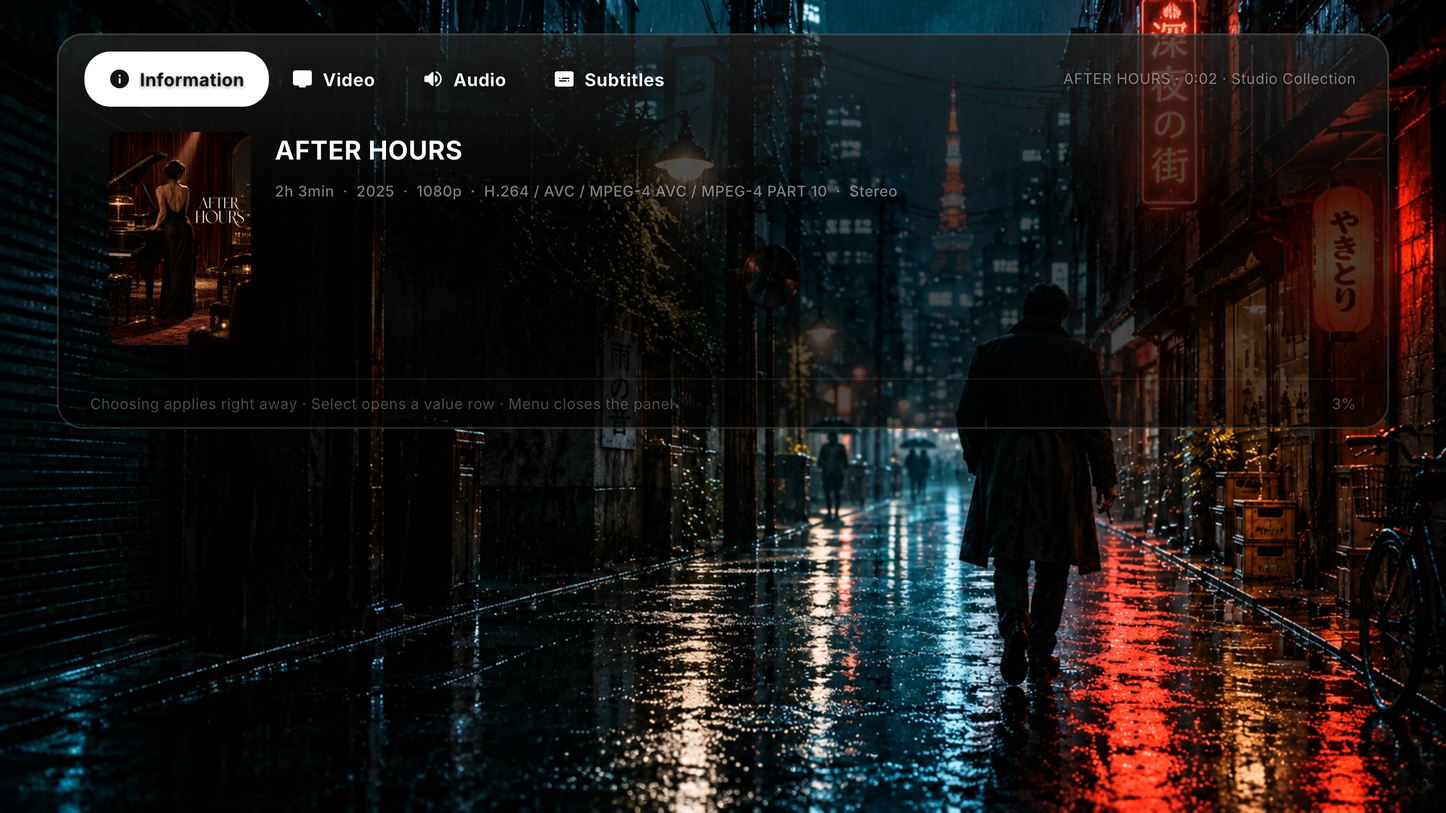
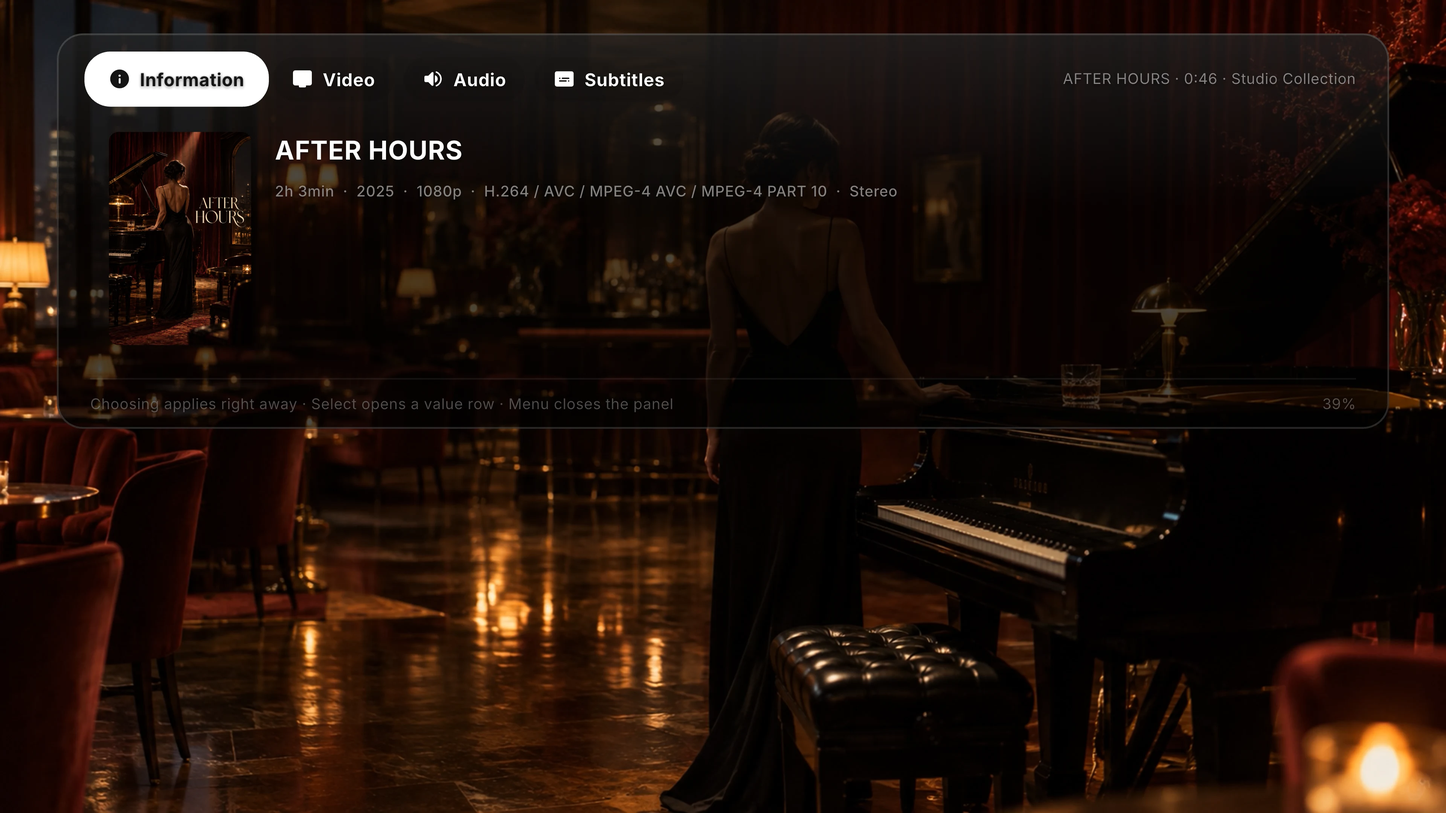
Refresh website demo captures and clarify sharing from any Pleya device

diff --git a/website/static/media-credits.html b/website/static/media-credits.html
@@ -1,1 +1,1 @@
-<!doctype html><html lang="en"><head><meta charset="utf-8"><title>Pleya — media credits</title><meta name="viewport" content="width=device-width, initial-scale=1"><style>body{margin:0;background:#000;color:#f4f1ec;font:16px/1.6 system-ui}a{color:inherit}</style><style>main{max-width:48rem;margin:4rem auto;padding:1.5rem}h1{font-size:2rem}p,li{margin-top:1rem}a{text-decoration:underline}</style></head><body><main><h1>Demo media credits</h1><p>The Home and detail screenshots are real captures of Pleya 2.8.1 build 315 on Mac, iPhone and Apple TV, built from release commit 5bf8573c. Liquid Glass is enabled on iPhone and Apple TV; the app does not offer that mode on Mac. Capture provenance is recorded in /media/capture-manifest.json. Their two demo collections contain twelve fictional films with original generated posters and backdrops created for Pleya. Source artwork is recorded in /media/catalog.json. No commercial film posters were used for these new screenshots.</p><p>Big P uses the supplied original artwork. The tour video and older playback demonstration use Blender open films; their credits are listed below. App screenshots are captured directly, without repainting their interfaces.</p><ul><li><a href="https://peach.blender.org/about/">Big Buck Bunny — Blender Foundation, CC BY 3.0</a></li><li><a href="https://durian.blender.org/about/">Sintel — Blender Foundation, Creative Commons Attribution</a></li><li><a href="https://studio.blender.org/projects/spring/pages/about/">Spring — Blender Foundation, CC BY 4.0 (project page excludes logos and trademarks)</a></li><li><a href="https://mango.blender.org/">Tears of Steel — Blender Foundation</a></li><li><a href="https://studio.blender.org/films/caminandes/">Caminandes — Blender Foundation / Blender Studio</a></li><li><a href="https://studio.blender.org/films/charge/">Charge — Blender Studio</a></li></ul><p><a href="https://studio.blender.org/remixing/">Blender Studio reuse and attribution guidance</a></p><p><a href="/">Return to Pleya</a></p><p>The Apple TV reel includes native build 315 captures of All movies, NORTH series details and the Information, Video, Audio and Subtitles player tabs with Liquid Glass enabled. The player uses a local demo clip encoded from the original NIGHTFALL backdrop; its title metadata is fictional demo data.</p></main></body></html>
+<!doctype html><html lang="en"><head><meta charset="utf-8"><title>Pleya — media credits</title><meta name="viewport" content="width=device-width, initial-scale=1"><style>body{margin:0;background:#000;color:#f4f1ec;font:16px/1.6 system-ui}a{color:inherit}</style><style>main{max-width:48rem;margin:4rem auto;padding:1.5rem}h1{font-size:2rem}p,li{margin-top:1rem}a{text-decoration:underline}</style></head><body><main><h1>Demo media credits</h1><p>The Home and detail screenshots are real captures of Pleya 2.8.1 build 315 on Mac, iPhone and Apple TV, built from release commit 5bf8573c. Liquid Glass is enabled on iPhone and Apple TV; the app does not offer that mode on Mac. Capture provenance is recorded in /media/capture-manifest.json. Their two demo collections contain twelve fictional films with original generated posters and backdrops created for Pleya. Source artwork is recorded in /media/catalog.json. No commercial film posters were used for these new screenshots.</p><p>Big P uses the supplied original artwork. The tour video and older playback demonstration use Blender open films; their credits are listed below. App screenshots are captured directly, without repainting their interfaces.</p><ul><li><a href="https://peach.blender.org/about/">Big Buck Bunny — Blender Foundation, CC BY 3.0</a></li><li><a href="https://durian.blender.org/about/">Sintel — Blender Foundation, Creative Commons Attribution</a></li><li><a href="https://studio.blender.org/projects/spring/pages/about/">Spring — Blender Foundation, CC BY 4.0 (project page excludes logos and trademarks)</a></li><li><a href="https://mango.blender.org/">Tears of Steel — Blender Foundation</a></li><li><a href="https://studio.blender.org/films/caminandes/">Caminandes — Blender Foundation / Blender Studio</a></li><li><a href="https://studio.blender.org/films/charge/">Charge — Blender Studio</a></li></ul><p><a href="https://studio.blender.org/remixing/">Blender Studio reuse and attribution guidance</a></p><p><a href="/">Return to Pleya</a></p><p>The Apple TV reel includes native build 315 captures of All movies, NORTH series details and the Information, Video, Audio and Subtitles player tabs with Liquid Glass enabled. Each player tab uses a different local demo clip: AFTER HOURS, ORBITAL, TIDE and NIGHTFALL. NORTH has six original episode scenes across two seasons. The new episode and AFTER HOURS artwork is recorded in <a href="/media/demo-stills/provenance.json">the demo stills provenance</a>; all title metadata is fictional demo data. The Share section crops the real Mac host screenshot to its pairing panel, alongside a real iPhone library capture.</p></main></body></html>

diff --git a/website/src/lib/components/home/Reel.svelte b/website/src/lib/components/home/Reel.svelte
@@ -3,6 +3,7 @@
   import screen1 from '$lib/assets/home/tv-movies-315-glass.webp';
   import screen2 from '$lib/assets/home/tv-all-movies-315-glass.webp';
   import screen3 from '$lib/assets/home/tv-series-detail-315-glass.webp';
+  import season2 from '$lib/assets/home/tv-series-season2-315-glass.webp';
   import screen4 from '$lib/assets/home/tv-player-information-315-glass.webp';
   import screen5 from '$lib/assets/home/tv-player-video-315-glass.webp';
   import screen6 from '$lib/assets/home/tv-player-audio-315-glass.webp';
@@ -12,7 +13,8 @@
     { src: screen0, alt: "Pleya Home on Apple TV with Liquid Glass navigation and original demo artwork", title: "Pick up where you stopped", text: "The focused title grows and shows how much is left. Your progress follows you to every device.", specs: [] },
     { src: screen1, alt: "Pleya Movies discovery on Apple TV with original demo titles", title: "Your collection, at a glance", text: "Browse two demo collections with the Siri Remote. Original posters and artwork fill the current Pleya build.", specs: [] },
     { src: screen2, alt: "All movies on Apple TV, with a focused poster and Liquid Glass navigation", title: "All movies. One view.", text: "Your complete movie library, sorted by title. A clear focus ring keeps every poster within reach of the remote.", specs: [] },
-    { src: screen3, alt: "NORTH series details on Apple TV, showing two seasons and three episodes", title: "A season ahead", text: "Move between seasons and episodes without leaving the series. The selected episode stays clear, even from the couch.", specs: [] },
+    { src: screen3, alt: "NORTH series details on Apple TV, showing three episodes with distinct original images", title: "A season ahead", text: "Every episode has its own scene. Move between seasons and episodes without leaving the series. The selected episode stays clear, even from the couch.", specs: [] },
+    { src: season2, alt: "NORTH season two on Apple TV, with three different original episode scenes", title: "A new season. New scenes.", text: "Six episodes, six original images. The second season brings the expedition indoors, onto the frozen fjord and back to the harbour.", specs: [] },
     { src: screen4, alt: "The Apple TV player Information tab in a translucent Liquid Glass panel", title: "Know what is playing", text: "The Information tab puts the title, resolution, video codec and audio format together over the picture.", specs: [] },
     { src: screen5, alt: "The Apple TV player Video tab, with aspect ratio, zoom, HDR and playback controls", title: "Make the picture yours", text: "Aspect ratio, zoom, HDR and playback speed share one Video tab. The picture stays visible behind the glass.", specs: [] },
     { src: screen6, alt: "The Apple TV player Audio tab, with track, sync and volume controls", title: "Sound, in one place", text: "Choose an audio track, adjust sync and manage volume from the Audio tab, using the same remote controls.", specs: [] },

diff --git a/website/src/lib/components/home/Share.svelte b/website/src/lib/components/home/Share.svelte
@@ -1,5 +1,6 @@
 <script lang="ts">
-  import macShare from '$lib/assets/home/mac-share.webp';
+  import macShare from '$lib/assets/home/mac-share-315.webp';
+  import iosHome from '$lib/assets/home/ios-home-315-glass.webp';
 
   const routes = [
     ['Same Wi-Fi', 'Direct, over the local network.'],
@@ -15,10 +16,10 @@
     <div class="share-grid">
       <div>
         <p class="kicker">Pleya Share <span class="tag">PREMIUM, AFTER BETA</span></p>
-        <h2 class="big" data-split>No server? Your phone is one.</h2>
+        <h2 class="big" data-split>No server? Your device is one.</h2>
         <p class="lede">
-          Pleya Share turns the device holding the files into a small media server for your other Pleya devices. The
-          shared folders show up as a library next to your servers.
+          Share from any device running Pleya. The device holding your files becomes a small media server for your
+          other Pleya devices. Shared folders show up as a library next to your servers.
         </p>
         <ol class="share-steps" data-reveal>
           <li>On the host: Settings, Pleya Share, Host, pick folders</li>
@@ -33,9 +34,21 @@
       </dl>
     </div>
     <figure class="share-shot" data-reveal>
-      <img class="mac" src={macShare} width="1312" height="724" loading="lazy"
-        alt="Pleya Share on a Mac: the host screen with a six-digit pairing code and a QR code for a shared folder" />
-      <figcaption class="cap">The host screen, here on a Mac. Scan the QR code on the other device, or type the six digits. The code changes after each pairing.</figcaption>
+      <div class="share-pairing">
+        <div class="share-host">
+          <p class="share-screen-label">Share from your device</p>
+          <div class="share-host-crop">
+            <img src={macShare} width="1920" height="1050" loading="lazy"
+              alt="Current Pleya Share host panel on Mac, with local-folder sharing, a pairing code and QR code" />
+          </div>
+        </div>
+        <div class="share-receiver">
+          <p class="share-screen-label">Watch on another device</p>
+          <img class="phone" src={iosHome} width="1206" height="2622" loading="lazy"
+            alt="Pleya library on iPhone, with original demo artwork and Liquid Glass navigation" />
+        </div>
+      </div>
+      <figcaption class="cap">Shown here on Mac and iPhone; you can share from any device running Pleya. Scan the QR code on the other device, or type the six digits. The code changes after each pairing.</figcaption>
     </figure>
   </div>
 </section>

diff --git a/website/src/lib/components/home/home.css b/website/src/lib/components/home/home.css
@@ -137,7 +137,16 @@
   .share { position: relative; padding-block: 8rem; overflow: hidden; }
   .share::before { content: ""; position: absolute; inset: 0; background: radial-gradient(60% 55% at 85% 30%, rgba(255, 140, 40, 0.14), transparent 70%), radial-gradient(50% 50% at 10% 90%, rgba(229, 20, 15, 0.12), transparent 70%); pointer-events: none; }
   .share-grid { position: relative; display: grid; gap: 3rem; }
-  .share-shot { position: relative; margin-top: 3.5rem; max-width: 56rem; }
+  .share-shot { position: relative; margin-top: 3.5rem; max-width: 64rem; }
+  .share-pairing { display: grid; grid-template-columns: minmax(0, 1fr); gap: 2rem; align-items: start; }
+  .share-screen-label { margin-bottom: 0.8rem; font-size: 0.85rem; font-weight: 600; color: var(--muted); }
+  .share-host-crop { position: relative; overflow: hidden; aspect-ratio: 920 / 750; border: 1px solid rgba(255,255,255,0.18); border-radius: 1.1rem; background: #000; }
+  .share-host-crop img { position: absolute; width: 208.695652%; max-width: none; height: auto; left: -54.347826%; top: -9.333333%; }
+  .share-receiver { width: min(58%, 17rem); justify-self: center; }
+  @media (min-width: 700px) {
+    .share-pairing { grid-template-columns: minmax(0, 1fr) minmax(0, 0.34fr); gap: 3rem; }
+    .share-receiver { width: 100%; }
+  }
   .share .tag { display: inline-block; margin-left: 0.6rem; vertical-align: middle; font-size: 0.72rem; font-weight: 600; letter-spacing: 0.08em; padding: 0.2rem 0.6rem; border-radius: 999px; background: rgba(255, 176, 32, 0.14); color: var(--amber); }
   .share .lede { margin-top: 1.4rem; }
   .routes { display: grid; gap: 1.4rem; }

diff --git a/website/src/lib/components/home/Devices.svelte b/website/src/lib/components/home/Devices.svelte
@@ -11,7 +11,7 @@
     <h2 class="big" data-split>The same library in your pocket and on your desk.</h2>
     <figure class="devices-stage peek-stage" data-moment="ledge">
       <div class="peek-ledge" aria-hidden="true"><img src={bigP} alt="" /></div>
-      <img class="mac" src={macHome} width="1920" height="1050" loading="lazy" alt="Current Pleya on Mac, with both original demo collections in one Home" />
+      <img class="mac" src={macHome} width="2624" height="1644" loading="lazy" alt="Current Pleya on Mac, with both original demo collections in one Home" />
       <img class="phone p1" src={iosMovies} width="603" height="1311" loading="lazy" alt="Pleya Home on iPhone with original artwork and Liquid Glass" />
       <img class="phone p2" src={iosDetail} width="603" height="1311" loading="lazy" alt="The TIDE film detail page on iPhone with Liquid Glass controls" />
     </figure>

diff --git a/website/src/lib/components/home/Unified.svelte b/website/src/lib/components/home/Unified.svelte
@@ -22,7 +22,7 @@
       </p>
     </div>
     <figure class="unified-shots">
-      <img class="tv" src={tvServers} width="1920" height="1080" loading="lazy" alt="Pleya on Mac showing films from two original demo collections together" />
+      <img class="tv" src={tvServers} width="2624" height="1644" loading="lazy" alt="Pleya on Mac showing films from two original demo collections together" />
       <img class="phone" src={iosServers} width="603" height="1311" loading="lazy" alt="Pleya Home on iPhone with the original demo library" />
       <figcaption class="cap">
         Two demo collections, together in the real Pleya app. Original artwork created for this preview.
